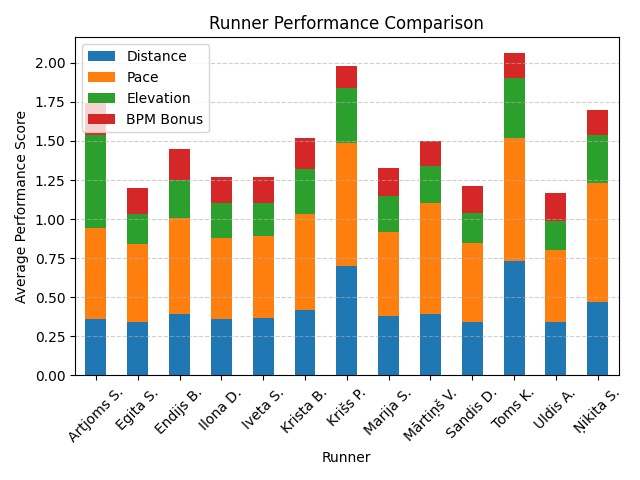
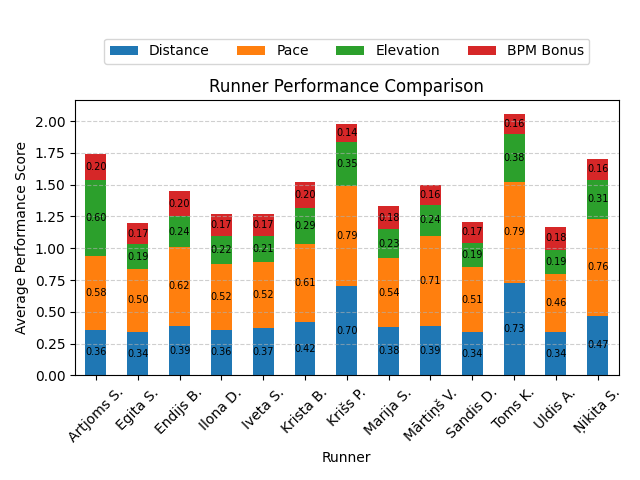
customize chart visuals

diff --git a/runners_kpi_visualization/main.py b/runners_kpi_visualization/main.py
@@ -87,17 +87,27 @@ avg_perf_score.plot(
     # store the plot in ax, to customize later
     ax=ax)
 
+# add labels inside stacked bars
+for container in ax.containers:
+    ax.bar_label(container, fmt="%.2f", label_type="center", fontsize=7)
+
 # set title and axis name
 ax.set_title("Runner Performance Comparison")
 ax.set_xlabel("Runner")
 ax.set_ylabel("Average Performance Score")
 
-# rename columns for cleaner legend names
-ax.legend(["Distance", "Pace", "Elevation", "BPM Bonus"])
+# rename and reposition legend
+ax.legend(
+    ["Distance", "Pace", "Elevation", "BPM Bonus"],
+    loc="upper center",
+    bbox_to_anchor=(0.5, 1.25),
+    ncol=4
+)
 
 # "x" axe labels/numbers rotation
 ax.tick_params(axis="x", rotation=45)
 ax.grid(axis="y", linestyle="--", alpha=0.6)
+
 # adjust spacing, so it fits in figure
 plt.tight_layout()
 # endregion
